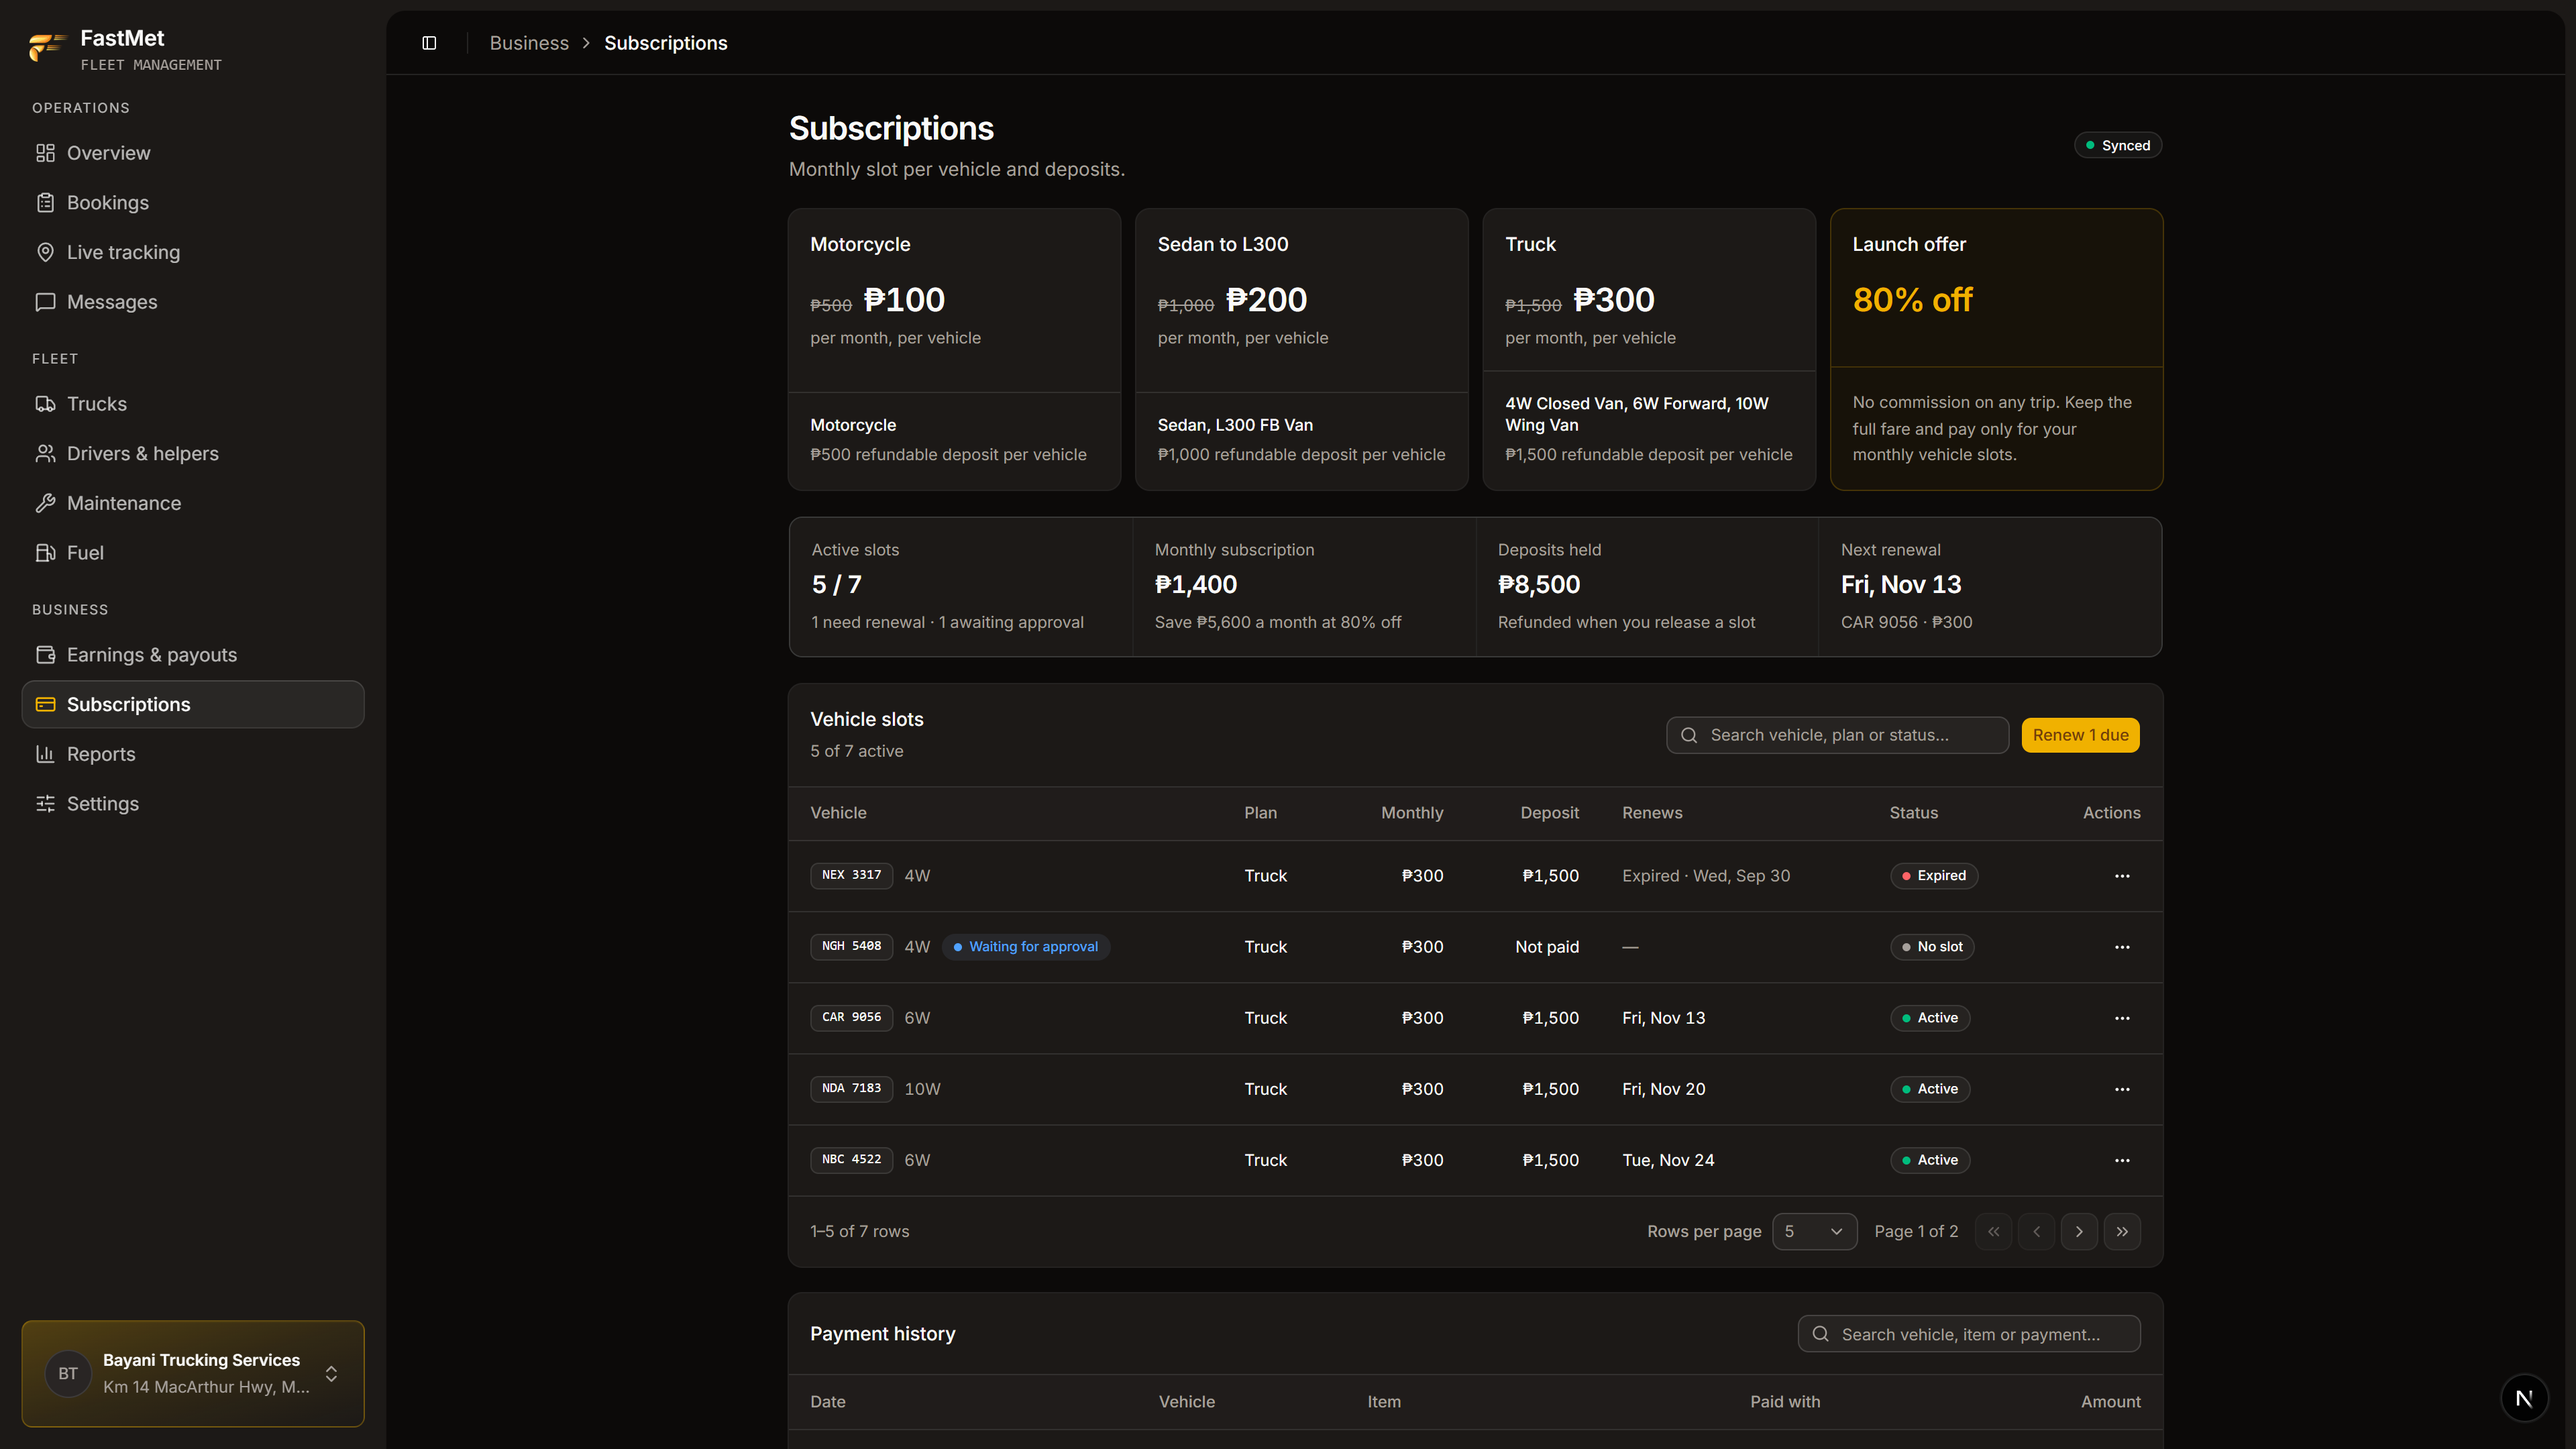
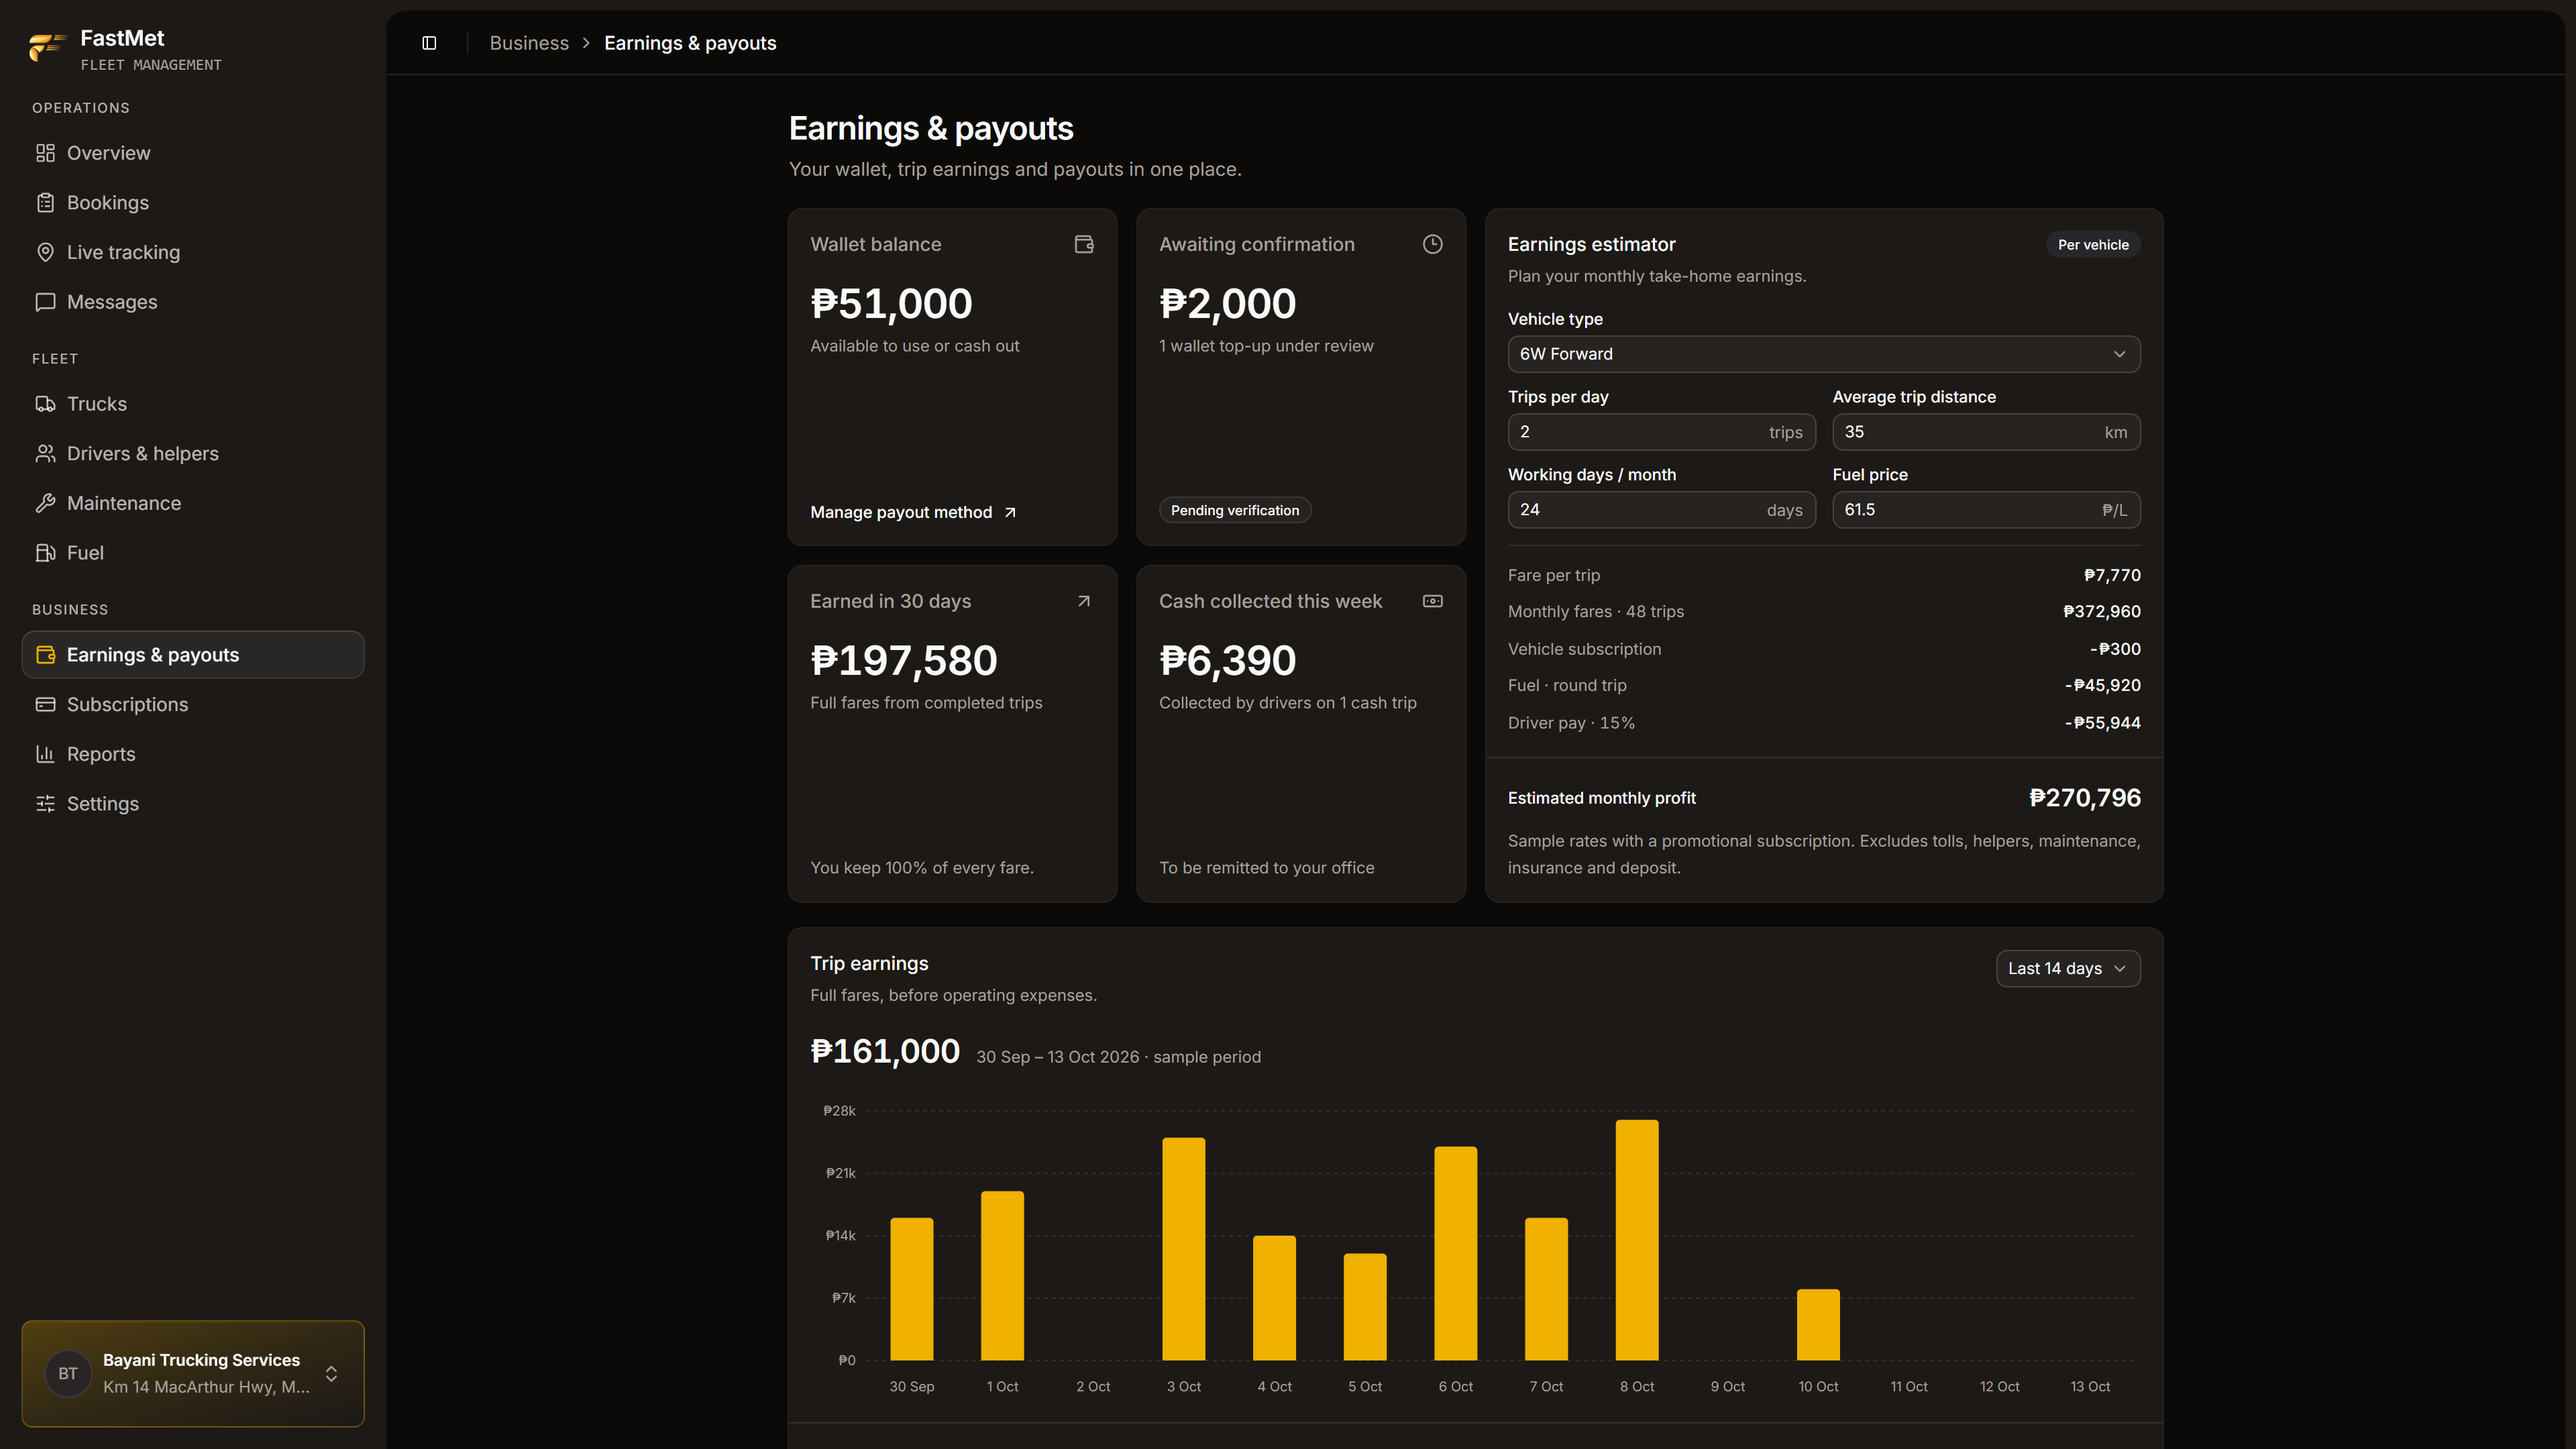
feat(landing): change the images, remove the unused images, and adjust the sections

diff --git a/src/app/page.tsx b/src/app/page.tsx
@@ -114,7 +114,7 @@ export default function LandingPage() {
       </a>
 
       {/* ------------- NAVBAR ---------------- */}
-      <header className="sticky top-0 z-10 w-full border-b bg-background">
+      <header className="sticky top-0 z-10 w-full border-b bg-background opacity-90 backdrop-blur-sm">
         <div className={frame}>
           <div className="grid min-h-18 grid-cols-[1fr_auto] items-center gap-x-3 py-3 md:grid-cols-[1fr_auto_1fr]">
             <Brand />
@@ -356,7 +356,7 @@ export default function LandingPage() {
                 <Link
                   href="/login"
                   className={buttonVariants({
-                    className: primaryButton,
+                    className: `${primaryButton} w-full md:w-auto`,
                   })}
                 >
                   Sign in

diff --git a/src/components/auth/AuthShell.tsx b/src/components/auth/AuthShell.tsx
@@ -16,7 +16,7 @@ export function AuthShell({ children }: Readonly<{ children: ReactNode }>) {
       >
         Skip to form
       </a>
-      <header className="flex items-center justify-between gap-4 px-6 py-4 sm:px-10 lg:px-12">
+      <header className="flex items-center justify-between gap-4 px-6 py-4 sm:px-10 lg:px-12 border-b">
         <Brand />
         <FleetThemeMenu systemLabel="Device" />
       </header>
